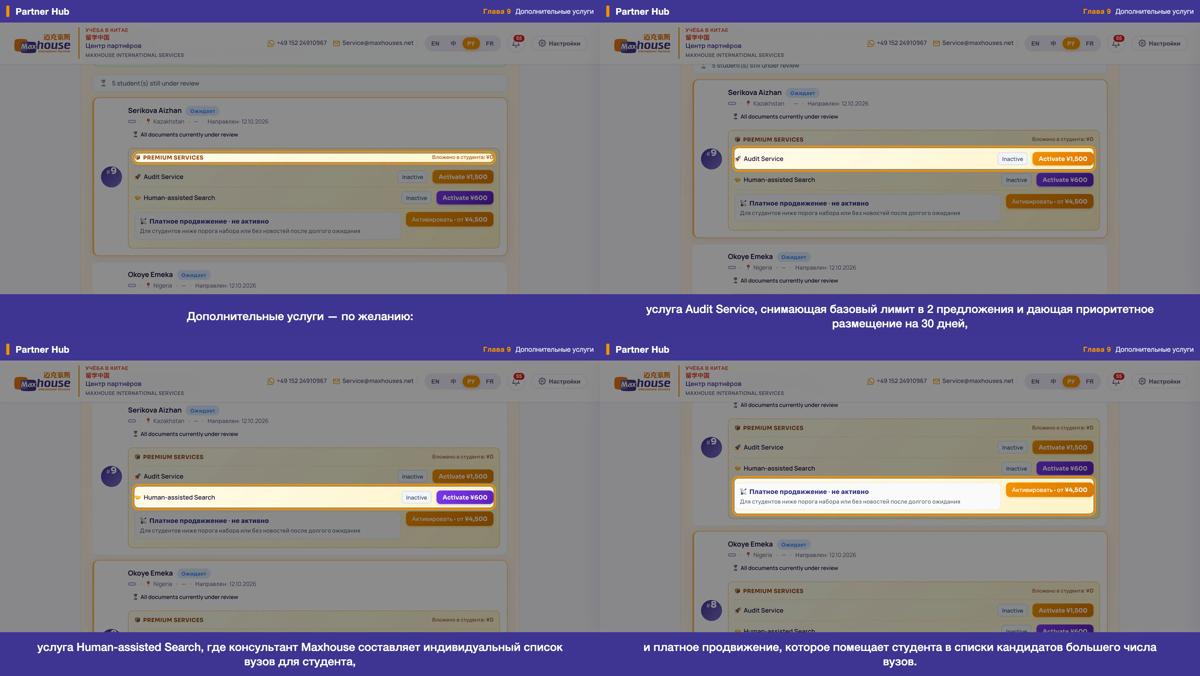
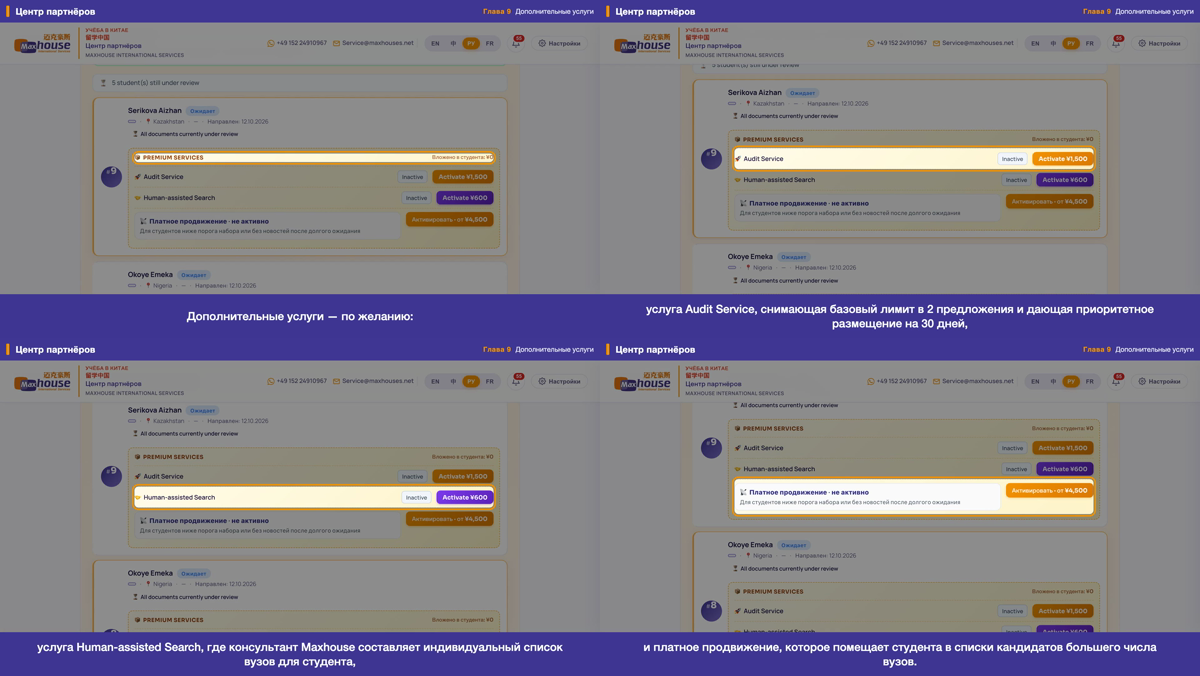
JOB-GP1 trip47: ch9 增值服务章(读-only·零DB写)四语横竖 v185 定版重录(第三轮返工·RULING-20261013b §三.10/§三.7/§一/§三.9)——CONTEXT 滚首张推荐生列表卡增值服务区到视口中心·逐镜高亮 9-1 标题/9-2 Audit ¥1,500/9-3 人工搜索 ¥600/9-4 付费曝光 从¥4,500 起·零点击零写库。字幕四语不改·§四.4 N/A(引号 0 命中)·9-4 无「优先审核」字样·D-18-4 premium ru/fr EN 回退照录。开工+收工 verify 17/17 PASS·§四.5 scan ALL 

diff --git a/JOB-GP1-03-PROGRESS.md b/JOB-GP1-03-PROGRESS.md
@@ -1,4 +1,6 @@
-最后一趟：2026-10-14 第46趟 第三轮返工（RULING-20261013b-video-only）：**做了＝第〇节代码核验（partner-portal 与线上一致·无 v186·diff 空·index 指 v185）+ ch8（名额与提额章·§三.7 照 D-32-1·读-only 零 DB 写）四语横竖 v185 定版重录，落 §三.7+§一+§三.9+§三.10**。ch8 字幕四语不改（trip32 已 bank）。零写库：8-1 读统计卡；8-2/8-3 调产品 _qrOpenRaise 开弹窗填 30+理由不提交；8-4 调产品自身 _qrApplyBanner 喂样例渲染真绿条（§8 先例·不写库）。§三.7：录前 st-ch8-quota-off 去 amber「Quota raise pending 10→30」横幅（pending→approved·decided_at NULL·referral_quota 不动）、录后 st-ch8-quota-restore（verify#13 回 pending）；读-only 一次 off→录全 8 变体→一次 restore。§一：工作台「TOTAL PAYMENTS PROCESSED ¥0」无负数（亲帧 EN land 8-1 f15/8-4 f157）。§三.9：ru Центр партнёров/fr Espace partenaires（trip38 继承）。§四.4 N/A（ch8 字幕无引号引按钮名）。新建 rec/_runch8.sh（dbrun 用 local out 避 trip45 orient 污染）/_prodch8.sh/_scan-ch8-forbidden.mjs。ru-land 首轮 0 帧偶发→单独重录 182 帧过。md5 比对 dist vs _v2 全差异（真重录非 stale）。开工+收工 verify 均 **17/17 PASS 0 FAIL**。§四.5 scan 四语×横竖 **ALL CLEAN**（beta/test/负数/真邮箱 0 命中）。亲帧+四语联络表逐镜复验：9 学生/提额弹窗/填 30+理由/产品绿条已批 30 席；无 beta、¥0 无负数、双盲守住、Demo Agency 无真 PII、邮箱 agency.demo@example.com（no @gmail）、页头平台联系方式不遮（D-14-3/D-15-1）、俄法弹窗/绿条 EN 回退 D-18-4 照录（zh 弹窗全中文）。时长 land en30.14/zh28.20/ru30.82/fr31.78·port en30.09/zh28.24/ru30.75/fr31.79。第二版 ch8 8 片 cp 到 _v2/ 留底（原无 ch8）·_v1 未动·dist 覆盖第三轮版（不入 git）。改了（主仓库点名 JOB-GP1 不推）：新增 rec/_runch8.sh/_prodch8.sh/_scan-ch8-forbidden.mjs、REVIEW-{en,zh,ru,fr}-shots.md 追加 ch8 节、DECISIONS.md(D-46-1)。无产品码/迁移/captions/shots-v1.json 改动。四语 ch8 联络表+4 REVIEW-shots+决定账+PROGRESS 推 mh-jobs。**下趟＝ch9（增值服务章·读-only·§三.10 照样 v185 重录一次）**。GP-1 第三轮返工未收官，后续 ch9→ch10→OP-2~5 重做+重拼+十一项重审→才重写 SUMMARY-GP1。
+最后一趟：2026-10-14 第47趟 第三轮返工（RULING-20261013b-video-only）：**做了＝第〇节代码核验（partner-portal 与线上一致·无 v186·diff 空·index 指 v185）+ ch9（增值服务章·读-only·零 DB 写）四语横竖 v185 定版重录，落 §三.10+§三.7+§一+§三.9**。ch9 字幕四语不改（review1/review2 未标 ch9 缺陷·§三.10 仅要求 v185 重录一次）。读-only：CONTEXT['9'] 把首张推荐生列表卡 `.partner-premium-block` 滚到视口中心（D-23-1 实证在列表卡非弹窗），逐镜高亮 9-1 增值服务标题/9-2 Audit ¥1,500 行/9-3 人工搜索 ¥600 行/9-4 付费曝光 从¥4,500 起行，全程零点击零写库。§三.7：照 ch6 读-only 先例，录前 st-ch8-quota-off 去「Quota raise pending 10→30」横幅、录后 st-ch8-quota-restore（verify#13 回 pending）；一次 off→录全 8 变体→一次 restore。§一：每张卡「Invested/该学生已投入/Вложено/Investi pour cet étudiant ¥0」无负数（亲帧 EN f30/zh f75/ru f30/fr f165），服务价 ¥1,500/¥600/¥4,500 均正数。§三.9：ru Центр партнёров/fr Espace partenaires（trip38 继承·成片帧亲验）。§四.4 N/A（程序扫 ch9 四语 captions 引号 0 命中·全描述性散文）。9-4 shot forbid 满足（四语无「优先审核」字样·亲帧 f165）。D-18-4：9-1/9-2/9-3 premium 动态串 ru/fr 英文回退照录不补·9-4 boost 行 ru/fr 本地化（fr「Boost de visibilité · inactif / Activer · dès ¥4,500」）·zh 全本地化。新建 rec/_runch9.sh/_prodch9.sh/_scan-ch9-forbidden.mjs。md5 比对 dist vs _v2 全差异（真重录）。开工+收工 verify 均 **17/17 PASS 0 FAIL**。§四.5 scan 四语×横竖 **ALL CLEAN**（beta/test/负数/真邮箱 0 命中）。亲帧+四语联络表逐镜复验：增值服务区高亮逐行推进、¥0 无负数、双盲守住（无校名）、Demo 生 Serikova Aizhan/Okoye Emeka 无真 PII、邮箱 agency.demo@example.com（no @gmail）、页头平台联系方式不遮（D-14-3/D-15-1）。时长 land en22.82/zh23.80/ru26.35/fr24.32·port en22.78/zh23.75/ru26.39/fr24.27。第二版 ch9 8 片 cp 到 _v2/ 留底（原无 ch9）·_v1 未动·dist 覆盖第三轮版（不入 git）。改了（主仓库点名 JOB-GP1 不推）：新增 rec/_runch9.sh/_prodch9.sh/_scan-ch9-forbidden.mjs、REVIEW-{en,zh,ru,fr}-shots.md 追加 ch9 节、DECISIONS.md(D-47-1)。无产品码/迁移/captions/shots-v1.json 改动。四语 ch9 联络表+4 REVIEW-shots+决定账+PROGRESS 推 mh-jobs。**下趟＝ch10（设置/语言/账户章·读-only·§三.10 照样 v185 重录一次）**。GP-1 第三轮返工未收官，后续 ch10→OP-2~5 重做+重拼+十一项重审→才重写 SUMMARY-GP1。
+
+【上一趟（第46趟）首行存档】最后一趟：2026-10-14 第46趟 第三轮返工（RULING-20261013b-video-only）：**做了＝第〇节代码核验（partner-portal 与线上一致·无 v186·diff 空·index 指 v185）+ ch8（名额与提额章·§三.7 照 D-32-1·读-only 零 DB 写）四语横竖 v185 定版重录，落 §三.7+§一+§三.9+§三.10**。ch8 字幕四语不改（trip32 已 bank）。零写库：8-1 读统计卡；8-2/8-3 调产品 _qrOpenRaise 开弹窗填 30+理由不提交；8-4 调产品自身 _qrApplyBanner 喂样例渲染真绿条（§8 先例·不写库）。§三.7：录前 st-ch8-quota-off 去 amber「Quota raise pending 10→30」横幅（pending→approved·decided_at NULL·referral_quota 不动）、录后 st-ch8-quota-restore（verify#13 回 pending）；读-only 一次 off→录全 8 变体→一次 restore。§一：工作台「TOTAL PAYMENTS PROCESSED ¥0」无负数（亲帧 EN land 8-1 f15/8-4 f157）。§三.9：ru Центр партнёров/fr Espace partenaires（trip38 继承）。§四.4 N/A（ch8 字幕无引号引按钮名）。新建 rec/_runch8.sh（dbrun 用 local out 避 trip45 orient 污染）/_prodch8.sh/_scan-ch8-forbidden.mjs。ru-land 首轮 0 帧偶发→单独重录 182 帧过。md5 比对 dist vs _v2 全差异（真重录非 stale）。开工+收工 verify 均 **17/17 PASS 0 FAIL**。§四.5 scan 四语×横竖 **ALL CLEAN**（beta/test/负数/真邮箱 0 命中）。亲帧+四语联络表逐镜复验：9 学生/提额弹窗/填 30+理由/产品绿条已批 30 席；无 beta、¥0 无负数、双盲守住、Demo Agency 无真 PII、邮箱 agency.demo@example.com（no @gmail）、页头平台联系方式不遮（D-14-3/D-15-1）、俄法弹窗/绿条 EN 回退 D-18-4 照录（zh 弹窗全中文）。时长 land en30.14/zh28.20/ru30.82/fr31.78·port en30.09/zh28.24/ru30.75/fr31.79。第二版 ch8 8 片 cp 到 _v2/ 留底（原无 ch8）·_v1 未动·dist 覆盖第三轮版（不入 git）。改了（主仓库点名 JOB-GP1 不推）：新增 rec/_runch8.sh/_prodch8.sh/_scan-ch8-forbidden.mjs、REVIEW-{en,zh,ru,fr}-shots.md 追加 ch8 节、DECISIONS.md(D-46-1)。无产品码/迁移/captions/shots-v1.json 改动。四语 ch8 联络表+4 REVIEW-shots+决定账+PROGRESS 推 mh-jobs。**下趟＝ch9（增值服务章·读-only·§三.10 照样 v185 重录一次）**。GP-1 第三轮返工未收官，后续 ch9→ch10→OP-2~5 重做+重拼+十一项重审→才重写 SUMMARY-GP1。
 
 【上一趟（第45趟）首行存档】最后一趟：2026-10-14 第45趟 第三轮返工（RULING-20261013b-video-only）：**做了＝接 trip44 把 ch7（通知书/JW202/建档章·state 章 pt-07/08）四语横竖 v185 定版重录收尾，落 review2 §三.5+§三.6+§三.7+§一(+§三.9)**。接手时 trip44 已做完全部工装/代码（rec.mjs HIDE_INIT beta-toast 遮+hlReassert+actOff+diag74；shots 7-0 actOff/7-4 改框状态行 #gp1-74-issue；_runch7.sh/_scan-ch7-forbidden）并录了 en-land/en-port，但 zh/ru/fr 6 变体仍旧 v2、未备份 _v2、未合成 dist、未 verify、未提交（trip44「开工 verify 待跑」被打断在录制阶段）。**开工 verify** #6/#8/#13 FAIL＝trip44 为录 en 置的态(pt-07 已真付/pt-08 已传 jw202/quota approve)未跑 reset→跑 st-pt0708-reset-cleanup+st-ch8-quota-restore 复原→复 verify **17/17 PASS**。**§三.5**：7-0 ¥0 发票 dwell 在镜内(橙框 ¥0.00 ≥2s)，真付确认点击+等(产品付款成功「Paid(beta placeholder)」浮条~2.6s)全在镜外(actOff)跑→内测 toast 帧永不入片；双保险 HIDE_INIT 遮含 beta/placeholder/内测/测试 浮条；真付 DB 照写。**§三.6**：7-4 改框状态行 .partner-student-issue(#gp1-74-issue rAF 贴合)·box≈99-100px(状态行高非整卡)·不框徽章·字幕不变。**§三.7**：录前 st-ch8-quota-off 去横幅、录后 restore(verify#13 回 pending)。**§一**：7-0 折扣行 MAXHOUSE −¥3,000(优惠码白名单)·应付 ¥0.00·卡 Invested ¥0 无负数；§四.5 扫描负数 0。**§三.9**：ru Центр партнёров/fr Espace partenaires(trip38 继承)。**修工具 bug**：trip44 的 _scan-ch7-forbidden MASK 把登录框 @gmail 也盖→登录失败门禁不解锁(trip44 从未跑通)，照 rec.mjs __mhLogin 守卫加 emailInput/pwdInput 跳过→scan 四语×横竖 **ALL CLEAN**。开工(修脏态后)+收工 verify 均 **17/17 PASS 0 FAIL**。亲帧 EN land 7-0(f9 ¥0 橙框无 beta)/7-4(f97 状态行框·徽章不框·Invested ¥0)+四语 ch7 联络表(en/zh/ru/fr land+port)逐镜复验：¥0/校名揭晓+下载/JW202/建档含 Enrollment✓/状态行框；无 beta/test、双盲守住、演示生 Volkov Dmitri/Nilufar 无真 PII、邮箱 agency.demo@example.com(no @gmail)、页头平台 WhatsApp/Service@maxhouses.net 不遮(D-14-3/D-15-1)、俄法动态串 EN 回退 D-18-4 照录。时长 land en38.40/zh38.51/ru38.20/fr38.02·port en37.98/zh38.59/ru38.16/fr38.61s。**踩+修 _runch7.sh bug**：首轮合成后 md5 发现 zh 联络表与 trip31 逐字节相同→查出 dbrun() 的 `o=$(…)` 未加 local 污染外层 orient→录屏进乱码目录、prod 读到旧 trip31 帧(zh/ru/fr 成片=旧版)；修＝`local out`+删乱码目录+全 8 变体用修好脚本重录重合成，zh/ru/fr 联络表此后才真变、8 片 dur 齐≈38s。新建 rec/_prodch7.sh。第二版 ch7 8 片 cp 到 guide/dist/partner/_v2/(原无 ch7)·_v1 未动·dist 覆盖第三轮版。改了(主仓库点名 JOB-GP1 不推)：rec/rec.mjs(trip44 beta遮+hlReassert+actOff+diag74)、rec/shots-v1.json(7-0 actOff/7-4 状态行)、新增 rec/_runch7.sh/_prodch7.sh/_scan-ch7-forbidden.mjs 及 _probe-ch7-*/_dbg-port74/_dbg-toast/_chk-banner、REVIEW-{en,zh,ru,fr}-shots.md、DECISIONS.md(D-45-1)。无产品码/迁移/captions 改动(7-0/7-4 字幕不变)。四语 ch7 联络表+4 REVIEW-shots+决定账+PROGRESS 推 mh-jobs。**下趟＝ch8（名额与提额章·§三.7 照 D-32-1·state 章）**。GP-1 第三轮返工未收官，后续 ch8→ch9→ch10→OP-2~5 重做+重拼+十一项重审→才重写 SUMMARY-GP1。
 

diff --git a/JOB-GP1-decisions.md b/JOB-GP1-decisions.md
@@ -804,3 +804,25 @@
 - **留底（§三.12/点10）**：覆盖前已把第二版 ch8 8 片 cp 到 `guide/dist/partner/_v2/ch8-*.mp4`（同一文件只留一次，_v2 原无 ch8）；_v1 首版 ch8 未动；dist 覆盖为第三轮 v185 版。成片/voice 不入 git。
 - **改了**（主仓库，点名 JOB-GP1，不推）：新增 `rec/_runch8.sh`/`rec/_prodch8.sh`/`rec/_scan-ch8-forbidden.mjs`、`REVIEW-{en,zh,ru,fr}-shots.md`（追加 ch8 第三轮节）、`DECISIONS.md`（本条）。无产品码/迁移/captions/shots-v1.json 改动（ch8 字幕四语不变）。四语 ch8 联络表 + 4 REVIEW-shots + 决定账 + PROGRESS 推 mh-jobs。
 - **下趟**（§五 顺序）：ch9（增值服务章·读-only·§一 背景；trip34 已 v185 定版重录过，§三.10 照样重录一次）。**GP-1 第三轮返工未收官**，后续 ch9→ch10→OP-2~5 重做 + 四语全片/速览重拼 + 四语十一项重审 → 才重写 SUMMARY-GP1。
+
+## D-47-1 · ch9 增值服务章 §三.10 定版重录（读-only）+ §三.7 + §一 + §三.9（第47趟 2026-10-14 · RULING-20261013b-video-only · Mac mini 无人值守）
+- **第〇节代码核验**：`git diff origin/main --stat -- partner-portal` 空、partner-portal 下无未跟踪文件、无 v186、index.html `url=./maxhouse-partner-portal-v185`→无需还原，本轮不改五端口代码（每趟复核在案）。
+- **开工 verify**：**17/17 PASS 0 FAIL**（#13 quota_request pending requested 30 基线在）。
+- **本趟＝ch9（增值服务章 Optional / value-added services·§三.10 定版重录）**：照 §三.10「十章全部 v185 重录·不沿用任何旧录像」对 ch9 整章四语横竖 8 片**重新录制**。字幕四语不改（review1/review2 未标 ch9 任何镜级缺陷；§三.10 仅要求 v185 定版重录一次）。
+- **零 DB 写（读-only 章）**：CONTEXT['9'] 仅 `document.querySelector('.partner-premium-block').scrollIntoView({block:'center'})` 把首张推荐生列表卡的增值服务区滚到视口中心（9 张卡服务行同构同价·字幕不点名学生·取首卡即可，D-23-1 实证 premium block 在列表卡内非详情弹窗），逐镜高亮 9-1 标题/9-2 Audit 行/9-3 Human-assisted 行/9-4 boost 行，全程零点击、零写库。故照 ch6 读-only 工序：一次 `st-ch8-quota-off` → 录全 8 变体 → 一次 `st-ch8-quota-restore`。
+- **§三.7（提额横幅·安全·照 ch6 读-only 先例）**：虽 9-* 把 premium block 滚到视口中心、hero 顶部横幅多滚出视口（§四.5 扫描只计视口内可见文字），为杜绝「Quota raise pending 10→30」amber 横幅任何残留，录前 `st-ch8-quota-off`（单列可逆 UPDATE pending→approved·decided_at NULL·referral_quota 不动）、录后 `st-ch8-quota-restore` 还原 pending（收工 verify#13 回 pending）。
+- **§一（负数销账）**：每张卡「Invested on this student: ¥0 / 该学生已投入：¥0 / Вложено в студента: ¥0 / Investi pour cet étudiant : ¥0」无负数（亲帧 EN land 9-1 f30 / zh f75 / ru f30 / fr f165）；服务价 ¥1,500 / ¥600 / 从 ¥4,500 起均正数。§四.5 in-frame 扫描四语横竖负数全 CLEAN。
+- **§三.9（俄法章节条）**：ru「Центр партнёров」/fr「Espace partenaires」（trip38 D-38-1 overlay·本趟 ch9 重烧继承·成片帧亲验 ru land f30 / fr land f165）；zh「合作伙伴中心」/en「Partner Hub」不动。
+- **§四.4（引用按钮名逐字）N/A**：程序扫 ch9 四语 captions（EN/ZH 取 shots-v1.json，RU/FR 取 captions-v1.json）引号标记（" " / «» / 「」）**0 命中**——全为描述性散文（"the Audit Service" / "Human-assisted Search" / "paid exposure" 及四语对应均无引号），无逐字比对对象。
+- **§四（9-4 shot forbid）**：9-4 高亮行 EN「Exposure boost · inactive / Best for students below a school task's bar or with no news after a long wait」/ zh「付费曝光·未激活」/ ru「Платное продвижение · не активно」/ fr「Boost de visibilité · inactif」，**无「优先审核 / priority review」字样**（forbid 满足，亲帧 f165 四语）。
+- **D-18-4（俄法英文回退·照录不补）**：9-1 PREMIUM SERVICES 标题 / 9-2 Audit Service / 9-3 Human-assisted Search 等 premium 动态串在 ru/fr 下英文回退（LL 未译），照录不补；9-4 boost 行 ru/fr 本地化（ru「Платное продвижение」/ fr「Boost de visibilité」）。zh 全本地化（增值服务/Audit 服务/人工搜索/付费曝光）。
+- **自验（亲眼逐帧/联络表·铁律15）**：EN land 原始帧 9-1(f30: PREMIUM SERVICES 橙框·Invested ¥0·无横幅)/9-2(f75: Audit Service·Activate ¥1,500)/9-4(f165: Exposure boost·Activate from ¥4,500·无优先审核字样) + zh land f75（增值服务/Audit 服务 激活 ¥1,500·该学生已投入 ¥0·章节条 合作伙伴中心）+ ru land f30（章节条 Центр партнёров·Вложено ¥0·premium EN 回退·boost ru 本地化）+ fr land f165（章节条 Espace partenaires·Investi pour cet étudiant ¥0·boost fr「Boost de visibilité · inactif / Activer · dès ¥4,500」）+ 四语联络表（en/zh/ru/fr land+port）逐镜字幕中点。无 beta/placeholder/test、¥0 无负数、双盲守住（无校名）、Demo 生 Serikova Aizhan / Okoye Emeka 无真 PII、邮箱 agency.demo@example.com（no @gmail）、页头平台 WhatsApp/Service@maxhouses.net 不遮（D-14-3/D-15-1）。
+- **工具/工序**：新建 `rec/_runch9.sh`（quota-off → 每变体 rec.mjs --chapter 9 → quota-restore 自成闭环·dbrun 用 `local out` 避 trip45 orient 污染）+ `rec/_prodch9.sh`（逐变体 `prod-ch.mjs --tag <lang>-<orient>-ch9`）合成覆盖 dist + `gp1-finish --stage contact --chapter 9 --lang <lang>` 四语联络表 + 新建 `rec/_scan-ch9-forbidden.mjs`（§四.5 扫描·复现 MASK+HIDE 录制层·滚 premium block 到视口中心后扫视口内可见文字）。8 片 res OK + audio yes + 4 镜 box 全 resolve。
+- **成片正确性护栏**：合成后 md5 比对 dist vs `_v2/` 证 ch9-{land,port}-{en,zh,ru,fr} 全**差异**（真重录非 stale）。
+- **时长（最终成片，秒）**：land en 22.82 / zh 23.80 / ru 26.35 / fr 24.32；port en 22.78 / zh 23.75 / ru 26.39 / fr 24.27。
+- **DB**：开工+收工 verify 均 **17/17 PASS 0 FAIL**，baseline 守住（scoped quota 置态/复位，无全量 rebuild，D-12-2）。写入=无（ch9 零写库）；临时置态=st-ch8-quota-off（录后 restore 复位 verify#13）。
+- **§四.5 scan（`_scan-ch9-forbidden.mjs` 4 语×2 视口）**：**ALL CLEAN**——beta/placeholder/test/内测/测试 0 命中、负数 0 命中、真邮箱 0 命中。
+- **非四种停下情形**：全在成片/录制工装 + §三.7 授权置态范围，不碰端口码/迁移/共用组件、不越界、不碰 R2·CF、不推主仓库。
+- **留底（§三.12/点10）**：覆盖前已把第二版 ch9 8 片 cp 到 `guide/dist/partner/_v2/ch9-*.mp4`（同一文件只留一次，_v2 原无 ch9）；_v1 首版 ch9 未动；dist 覆盖为第三轮 v185 版。成片/voice 不入 git。
+- **改了**（主仓库，点名 JOB-GP1，不推）：新增 `rec/_runch9.sh`/`rec/_prodch9.sh`/`rec/_scan-ch9-forbidden.mjs`、`REVIEW-{en,zh,ru,fr}-shots.md`（追加 ch9 第三轮节）、`DECISIONS.md`（本条）。无产品码/迁移/captions/shots-v1.json 改动（ch9 字幕四语不变）。四语 ch9 联络表 + 4 REVIEW-shots + 决定账 + PROGRESS 推 mh-jobs。
+- **下趟**（§五 顺序）：ch10（设置/语言/账户章·读-only·§三.10 照样 v185 重录一次；10 已在 trip 序列·CONTEXT['10'] 开设置菜单不开 asModal）。**GP-1 第三轮返工未收官**，后续 ch10→OP-2~5 重做 + 四语全片/速览重拼 + 四语十一项重审 → 才重写 SUMMARY-GP1。

diff --git a/JOB-GP1-REVIEW-en-shots.md b/JOB-GP1-REVIEW-en-shots.md
@@ -342,3 +342,25 @@ ch8＝名额与提额章（Quota & requesting more）。**零 DB 写**：8-1 读
 - 亲帧复验：EN land 8-1(f15 9 学生·¥0·无横幅)/8-4(f157 产品绿条非伪造·¥0)；ru land + fr land + zh port 联络表逐镜复验（章节条 ru/fr 本地化、zh 弹窗全中文、ru/fr 弹窗与绿条 EN 回退 D-18-4 照录）；Demo Agency 无真 PII。
 - 时长（最终成片，秒）：land 30.14 / port 30.09。8 片全 res OK + audio yes + 4 镜 box 全 resolve。
 - 联络表（四语全部用本趟最终成片重生成）：`~/mh-jobs/shots/GP1/en/ch8-contact-{land,port}-en.png`。
+
+## ch9 §三.10（+§三.7+§一+§三.9）（第三轮返工 · RULING-20261013b，第47趟 2026-10-14 · v185 定版重录·增值服务章·读-only）
+ch9＝增值服务章（Optional / value-added services）。**读-only·零 DB 写**：CONTEXT['9'] 仅把首张推荐生列表卡的 `.partner-premium-block` 滚到视口中心，逐镜高亮服务行（9 张卡服务行同构同价，字幕不点名学生，取首卡即可），全程零点击、零写库。字幕四语未改（review1/review2 未标 ch9 任何镜级缺陷；§三.10 仅要求 v185 定版重录一次）。
+- **§三.10（定版重录·本趟目的）**：ch9 整章四语横竖 8 片用 v185 重录→`_prodch9.sh` 合成覆盖 dist→`gp1-finish --stage contact --chapter 9` 四语联络表。md5 比对 dist vs `_v2/` 8 片全差异（真重录非 stale）。
+- **§三.7（提额横幅·安全·照 ch6 读-only 先例）**：虽 9-* 把 premium block 滚到视口中心、hero 顶部横幅多滚出视口（扫描只计视口内可见文字），为杜绝「Quota raise pending 10→30」amber 横幅任何残留，录前 `st-ch8-quota-off` 去横幅、录后 `st-ch8-quota-restore`（收工 verify#13 回 pending）。读-only：一次 off→录全 8 变体→一次 restore。
+- **§一（负数销账）**：每张卡「Invested on this student: ¥0」无负数（亲帧 EN land 9-1 f30）；服务价 ¥1,500 / ¥600 / 从 ¥4,500 起均正数。§四.5 in-frame 扫描四语横竖负数全 CLEAN。
+- **§三.9**：ru 章节条「Центр партнёров」/fr「Espace partenaires」（trip38 overlay 继承·联络表实帧亲验）；zh「合作伙伴端」/en「Partner Hub」不动。
+- **§四.4（引用按钮名逐字）N/A**：ch9 四语字幕均未用引号（" " / 「」/ « »）引界面按钮或标签名——全为描述性散文（"the Audit Service" / "Human-assisted Search" / "paid exposure" 无引号），程序扫 ch9 四语 captions 引号标记 0 命中，无逐字比对对象。
+- **§四（9-4 forbid）**：9-4 高亮行为「Exposure boost · inactive / Best for students below a school task's bar or with no news after a long wait」，**无「优先审核 / priority review」字样**（shot forbid 满足）。
+
+| 镜 | 字幕原文（EN·不改） | 字幕中点画面高亮区实际文字（成片实帧肉眼读） | 同一件事？ |
+|----|------------------------|------------------------------------------------|-----------|
+| 9-1 | Optional extras, only if you want them: | `.partner-premium-title`「🎁 PREMIUM SERVICES」橙环框（右侧「Invested on this student: ¥0」无负数；§三.7 去横幅后无提额横幅） | 是 |
+| 9-2 | the Audit Service, which removes the basic 2-offer cap and adds 30 days of premium placement, | premium 第 2 行橙环框「🚀 Audit Service · Inactive · Activate ¥1,500」 | 是 |
+| 9-3 | Human-assisted Search, where a Maxhouse advisor builds a bespoke school shortlist for the student, | premium 第 3 行橙环框「🤝 Human-assisted Search · Inactive · Activate ¥600」 | 是 |
+| 9-4 | and paid exposure, which places the student in more universities' candidate pools. | `.partner-premium-row--boost` 橙环框「📈 Exposure boost · inactive · Activate · from ¥4,500」（无「优先审核」字样） | 是 |
+
+- §四.2：9-1..9-4 高亮均在滚到视口中心的 premium block 内，全程≥90% 可见、dwell≥70%；box 四镜全 resolve（land 1795×43/105/105/176）。
+- §四.5 整镜扫描（in-frame·MASK+HIDE 复现录制层·`_scan-ch9-forbidden.mjs`·4 语×2 视口）：**ALL CLEAN**——beta/placeholder/test/内测/测试 0 命中、负数 0 命中、真邮箱 0 命中（@gmail MASK→agency.demo@example.com）。页头平台 WhatsApp/Service@maxhouses.net 不遮（D-14-3/D-15-1）。
+- 亲帧复验：EN land 9-1(f30 PREMIUM SERVICES 框·Invested ¥0·无横幅)/9-2(f75 Audit ¥1,500)/9-4(f165 Exposure boost ¥4,500)；zh land f75(增值服务/Audit 服务 激活 ¥1,500·该学生已投入 ¥0·章节条 合作伙伴中心)、ru land f30(章节条 Центр партнёров·Вложено в студента ¥0·PREMIUM/Audit/Human-assisted EN 回退 D-18-4)；联络表四语逐镜复验。Demo 生 Serikova Aizhan / Okoye Emeka 无真 PII、双盲守住（无校名）。
+- 时长（最终成片，秒）：land en 22.82 / zh 23.80 / ru 26.35 / fr 24.32；port en 22.78 / zh 23.75 / ru 26.39 / fr 24.27。8 片全 res OK + audio yes + 4 镜 box 全 resolve。
+- 联络表（四语全部用本趟最终成片重生成）：`~/mh-jobs/shots/GP1/<lang>/ch9-contact-{land,port}-<lang>.png`（逐镜字幕中点）。

diff --git a/JOB-GP1-REVIEW-ru-shots.md b/JOB-GP1-REVIEW-ru-shots.md
@@ -271,3 +271,25 @@ ch8＝名额与提额章（Quota & requesting more）。**零 DB 写**：8-1 读
 - 亲帧复验：EN land 8-1(f15 9 学生·¥0·无横幅)/8-4(f157 产品绿条非伪造·¥0)；ru land + fr land + zh port 联络表逐镜复验（章节条 ru/fr 本地化、zh 弹窗全中文、ru/fr 弹窗与绿条 EN 回退 D-18-4 照录）；Demo Agency 无真 PII。
 - 时长（最终成片，秒）：land 30.82 / port 30.75。8 片全 res OK + audio yes + 4 镜 box 全 resolve。
 - 联络表（四语全部用本趟最终成片重生成）：`~/mh-jobs/shots/GP1/ru/ch8-contact-{land,port}-ru.png`。
+
+## ch9 §三.10（+§三.7+§一+§三.9）（第三轮返工 · RULING-20261013b，第47趟 2026-10-14 · v185 定版重录·增值服务章·读-only）
+ch9＝增值服务章（Дополнительные услуги / value-added services）。**读-only·零 DB 写**：CONTEXT['9'] 仅把首张推荐生列表卡的 `.partner-premium-block` 滚到视口中心，逐镜高亮服务行，零点击零写库。字幕四语未改（§三.10 仅要求 v185 定版重录一次）。
+- **§三.10**：ch9 整章四语横竖 8 片用 v185 重录→合成覆盖 dist→四语联络表。md5 比对 dist vs `_v2/` 8 片全差异（真重录）。
+- **§三.7（安全·照 ch6 读-only 先例）**：录前 `st-ch8-quota-off` 去横幅、录后 restore（verify#13 回 pending）。一次 off→录全 8 变体→一次 restore。
+- **§一**：每张卡「Вложено в студента: ¥0」无负数（亲帧 ru land f30）；¥1,500/¥600/¥4,500 均正数。§四.5 扫描四语横竖负数全 CLEAN。
+- **§三.9**：ru 章节条「Центр партнёров」（本语·成片帧亲验）/fr「Espace partenaires」（trip38 继承）；zh/en 不动。
+- **§四.4 N/A**：ch9 四语字幕均未用引号引界面按钮名（全描述性散文），无逐字比对对象。
+- **D-18-4**：9-1 标题 / 9-2 Audit / 9-3 Human-assisted 等 premium 动态串在 ru 下英文回退，照录不补；9-4 付费曝光行 ru 本地化「Платное продвижение · не активно / Активировать · от ¥4,500」。
+
+| 镜 | 字幕原文（RU·配音·不改） | 字幕中点画面高亮区实际文字（成片实帧肉眼读；动态串 LL 英文回退 D-18-4） | 同一件事？ |
+|----|------------------------|------------------------------------------------|-----------|
+| 9-1 | Дополнительные услуги — по желанию: | `.partner-premium-title`「🎁 PREMIUM SERVICES」(EN 回退) 橙环框（右侧「Вложено в студента: ¥0」无负数；§三.7 去横幅后无提额横幅） | 是 |
+| 9-2 | услуга Audit Service, снимающая базовый лимит в 2 предложения и дающая приоритетное размещение на 30 дней, | premium 第 2 行橙环框「🚀 Audit Service · Inactive · Activate ¥1,500」(EN 回退) | 是 |
+| 9-3 | услуга Human-assisted Search, где консультант Maxhouse составляет индивидуальный список вузов для студента, | premium 第 3 行橙环框「🤝 Human-assisted Search · Inactive · Activate ¥600」(EN 回退) | 是 |
+| 9-4 | и платное продвижение, которое помещает студента в списки кандидатов большего числа вузов. | `.partner-premium-row--boost` 橙环框「📈 Платное продвижение · не активно · Активировать · от ¥4,500」（无「优先审核」字样） | 是 |
+
+- §四.2：9-1..9-4 高亮均在视口中心 premium block 内，全程≥90% 可见、dwell≥70%；box 四镜全 resolve。
+- §四.5 整镜扫描（in-frame·`_scan-ch9-forbidden.mjs`·4 语×2 视口）：**ALL CLEAN**——beta/test 0、负数 0、真邮箱 0。页头平台不遮（D-14-3/D-15-1）。
+- 亲帧复验：ru land f30（章节条 Центр партнёров·Вложено в студента ¥0·PREMIUM/Audit/Human-assisted EN 回退 D-18-4·付费曝光行 ru 本地化）；EN/zh/fr 联络表逐镜复验。Demo 生无真 PII、双盲守住。
+- 时长（最终成片，秒）：land ru 26.35（en 22.82 / zh 23.80 / fr 24.32）；port ru 26.39（en 22.78 / zh 23.75 / fr 24.27）。8 片全 res OK + audio yes + 4 镜 box 全 resolve。
+- 联络表（四语全部用本趟最终成片重生成）：`~/mh-jobs/shots/GP1/ru/ch9-contact-{land,port}-ru.png`。

diff --git a/JOB-GP1-REVIEW-fr-shots.md b/JOB-GP1-REVIEW-fr-shots.md
@@ -271,3 +271,25 @@ ch8＝名额与提额章（Quota & requesting more）。**零 DB 写**：8-1 读
 - 亲帧复验：EN land 8-1(f15 9 学生·¥0·无横幅)/8-4(f157 产品绿条非伪造·¥0)；ru land + fr land + zh port 联络表逐镜复验（章节条 ru/fr 本地化、zh 弹窗全中文、ru/fr 弹窗与绿条 EN 回退 D-18-4 照录）；Demo Agency 无真 PII。
 - 时长（最终成片，秒）：land 31.78 / port 31.79。8 片全 res OK + audio yes + 4 镜 box 全 resolve。
 - 联络表（四语全部用本趟最终成片重生成）：`~/mh-jobs/shots/GP1/fr/ch8-contact-{land,port}-fr.png`。
+
+## ch9 §三.10（+§三.7+§一+§三.9）（第三轮返工 · RULING-20261013b，第47趟 2026-10-14 · v185 定版重录·增值服务章·读-only）
+ch9＝增值服务章（Options supplémentaires / value-added services）。**读-only·零 DB 写**：CONTEXT['9'] 仅把首张推荐生列表卡的 `.partner-premium-block` 滚到视口中心，逐镜高亮服务行，零点击零写库。字幕四语未改（§三.10 仅要求 v185 定版重录一次）。
+- **§三.10**：ch9 整章四语横竖 8 片用 v185 重录→合成覆盖 dist→四语联络表。md5 比对 dist vs `_v2/` 8 片全差异（真重录）。
+- **§三.7（安全·照 ch6 读-only 先例）**：录前 `st-ch8-quota-off` 去横幅、录后 restore（verify#13 回 pending）。一次 off→录全 8 变体→一次 restore。
+- **§一**：每张卡「Investi pour cet étudiant : ¥0」无负数（亲帧 fr land f165）；¥1,500/¥600/¥4,500 均正数。§四.5 扫描四语横竖负数全 CLEAN。
+- **§三.9**：fr 章节条「Espace partenaires」（本语·成片帧亲验）/ru「Центр партнёров」（trip38 继承）；zh/en 不动。
+- **§四.4 N/A**：ch9 四语字幕均未用引号引界面按钮名（全描述性散文），无逐字比对对象。
+- **D-18-4**：9-1 标题 / 9-2 Audit / 9-3 Human-assisted 等 premium 动态串在 fr 下英文回退，照录不补；9-4 付费曝光行 fr 本地化「Boost de visibilité · inactif / Activer · dès ¥4,500」。
+
+| 镜 | 字幕原文（FR·配音·不改） | 字幕中点画面高亮区实际文字（成片实帧肉眼读；动态串 LL 英文回退 D-18-4） | 同一件事？ |
+|----|------------------------|------------------------------------------------|-----------|
+| 9-1 | Des options supplémentaires, seulement si vous le souhaitez : | `.partner-premium-title`「🎁 PREMIUM SERVICES」(EN 回退) 橙环框（右侧「Investi pour cet étudiant : ¥0」无负数；§三.7 去横幅后无提额横幅） | 是 |
+| 9-2 | le service Audit, qui lève le plafond de 2 admissions de l'offre de base et ajoute 30 jours de placement prioritaire, | premium 第 2 行橙环框「🚀 Audit Service · Inactive · Activate ¥1,500」(EN 回退) | 是 |
+| 9-3 | la Recherche assistée, où un conseiller Maxhouse établit une liste d'établissements sur mesure pour l'étudiant, | premium 第 3 行橙环框「🤝 Human-assisted Search · Inactive · Activate ¥600」(EN 回退) | 是 |
+| 9-4 | et une mise en avant payante, qui place l'étudiant dans les viviers de candidats de davantage d'universités. | `.partner-premium-row--boost` 橙环框「📈 Boost de visibilité · inactif · Activer · dès ¥4,500」（无「优先审核」字样） | 是 |
+
+- §四.2：9-1..9-4 高亮均在视口中心 premium block 内，全程≥90% 可见、dwell≥70%；box 四镜全 resolve。
+- §四.5 整镜扫描（in-frame·`_scan-ch9-forbidden.mjs`·4 语×2 视口）：**ALL CLEAN**——beta/test 0、负数 0、真邮箱 0。页头平台不遮（D-14-3/D-15-1）。
+- 亲帧复验：fr land（章节条 Espace partenaires·Investi ¥0·premium 动态串 EN 回退 D-18-4·付费曝光行 fr 本地化）；EN/zh/ru 联络表逐镜复验。Demo 生无真 PII、双盲守住。
+- 时长（最终成片，秒）：land fr 24.32（en 22.82 / zh 23.80 / ru 26.35）；port fr 24.27（en 22.78 / zh 23.75 / ru 26.39）。8 片全 res OK + audio yes + 4 镜 box 全 resolve。
+- 联络表（四语全部用本趟最终成片重生成）：`~/mh-jobs/shots/GP1/fr/ch9-contact-{land,port}-fr.png`。

diff --git a/JOB-GP1-REVIEW-zh-shots.md b/JOB-GP1-REVIEW-zh-shots.md
@@ -279,3 +279,25 @@ ch8＝名额与提额章（Quota & requesting more）。**零 DB 写**：8-1 读
 - 亲帧复验：EN land 8-1(f15 9 学生·¥0·无横幅)/8-4(f157 产品绿条非伪造·¥0)；ru land + fr land + zh port 联络表逐镜复验（章节条 ru/fr 本地化、zh 弹窗全中文、ru/fr 弹窗与绿条 EN 回退 D-18-4 照录）；Demo Agency 无真 PII。
 - 时长（最终成片，秒）：land 28.20 / port 28.24。8 片全 res OK + audio yes + 4 镜 box 全 resolve。
 - 联络表（四语全部用本趟最终成片重生成）：`~/mh-jobs/shots/GP1/zh/ch8-contact-{land,port}-zh.png`。
+
+## ch9 §三.10（+§三.7+§一+§三.9）（第三轮返工 · RULING-20261013b，第47趟 2026-10-14 · v185 定版重录·增值服务章·读-only）
+ch9＝增值服务章（增值服务 / value-added services）。**读-only·零 DB 写**：CONTEXT['9'] 仅把首张推荐生列表卡的 `.partner-premium-block` 滚到视口中心，逐镜高亮服务行，全程零点击、零写库。字幕四语未改（review1/review2 未标 ch9 缺陷；§三.10 仅要求 v185 定版重录一次）。
+- **§三.10**：ch9 整章四语横竖 8 片用 v185 重录→合成覆盖 dist→四语联络表。md5 比对 dist vs `_v2/` 8 片全差异（真重录）。
+- **§三.7（安全·照 ch6 读-only 先例）**：录前 `st-ch8-quota-off` 去「Quota raise pending 10→30」横幅、录后 `st-ch8-quota-restore`（verify#13 回 pending）。读-only：一次 off→录全 8 变体→一次 restore。
+- **§一**：每张卡「该学生已投入：¥0」无负数（亲帧 zh land f75）；¥1,500/¥600/¥4,500 起均正数。§四.5 扫描四语横竖负数全 CLEAN。
+- **§三.9**：ru 章节条「Центр партнёров」/fr「Espace partenaires」（trip38 继承）；zh「合作伙伴端」/en「Partner Hub」不动。
+- **§四.4 N/A**：ch9 四语字幕均未用引号引界面按钮名（全描述性散文），无逐字比对对象。
+- **§四（9-4 forbid）**：9-4 高亮行「付费曝光·未激活 / 材料够不着学校任务门槛、或提交很久没动静的学生，最适合开通」，**无「优先审核」字样**。
+
+| 镜 | 字幕原文（ZH·不改） | 字幕中点画面高亮区实际文字（成片实帧肉眼读） | 同一件事？ |
+|----|------------------------|------------------------------------------------|-----------|
+| 9-1 | 可选的增值服务，用不用都行： | `.partner-premium-title`「🎁 增值服务」橙环框（右侧「该学生已投入：¥0」无负数；§三.7 去横幅后无提额横幅） | 是 |
+| 9-2 | Audit 服务，解除基础版两个 offer 上限，并提供 30 天优先推荐位； | premium 第 2 行橙环框「🚀 Audit 服务 · 未激活 · 激活 ¥1,500」 | 是 |
+| 9-3 | 人工搜索，由 Maxhouse 顾问为学生定制专属学校清单； | premium 第 3 行橙环框「🤝 人工搜索 · 未激活 · 激活 ¥600」 | 是 |
+| 9-4 | 付费曝光，让学生进入更多学校的候选池。 | `.partner-premium-row--boost` 橙环框「📈 付费曝光·未激活·激活·¥4,500 起」（无「优先审核」字样） | 是 |
+
+- §四.2：9-1..9-4 高亮均在滚到视口中心的 premium block 内，全程≥90% 可见、dwell≥70%；box 四镜全 resolve。
+- §四.5 整镜扫描（in-frame·MASK+HIDE·`_scan-ch9-forbidden.mjs`·4 语×2 视口）：**ALL CLEAN**——beta/test/内测/测试 0、负数 0、真邮箱 0（@gmail→agency.demo@example.com）。页头平台 WhatsApp/Service@maxhouses.net 不遮（D-14-3/D-15-1）。
+- 亲帧复验：zh land f75（增值服务/Audit 服务 激活 ¥1,500·该学生已投入 ¥0·章节条 合作伙伴中心）；EN/ru/fr 联络表逐镜复验。Demo 生 Serikova Aizhan / Okoye Emeka 无真 PII、双盲守住（无校名）。
+- 时长（最终成片，秒）：land zh 23.80（en 22.82 / ru 26.35 / fr 24.32）；port zh 23.75（en 22.78 / ru 26.39 / fr 24.27）。8 片全 res OK + audio yes + 4 镜 box 全 resolve。
+- 联络表（四语全部用本趟最终成片重生成）：`~/mh-jobs/shots/GP1/zh/ch9-contact-{land,port}-zh.png`。
